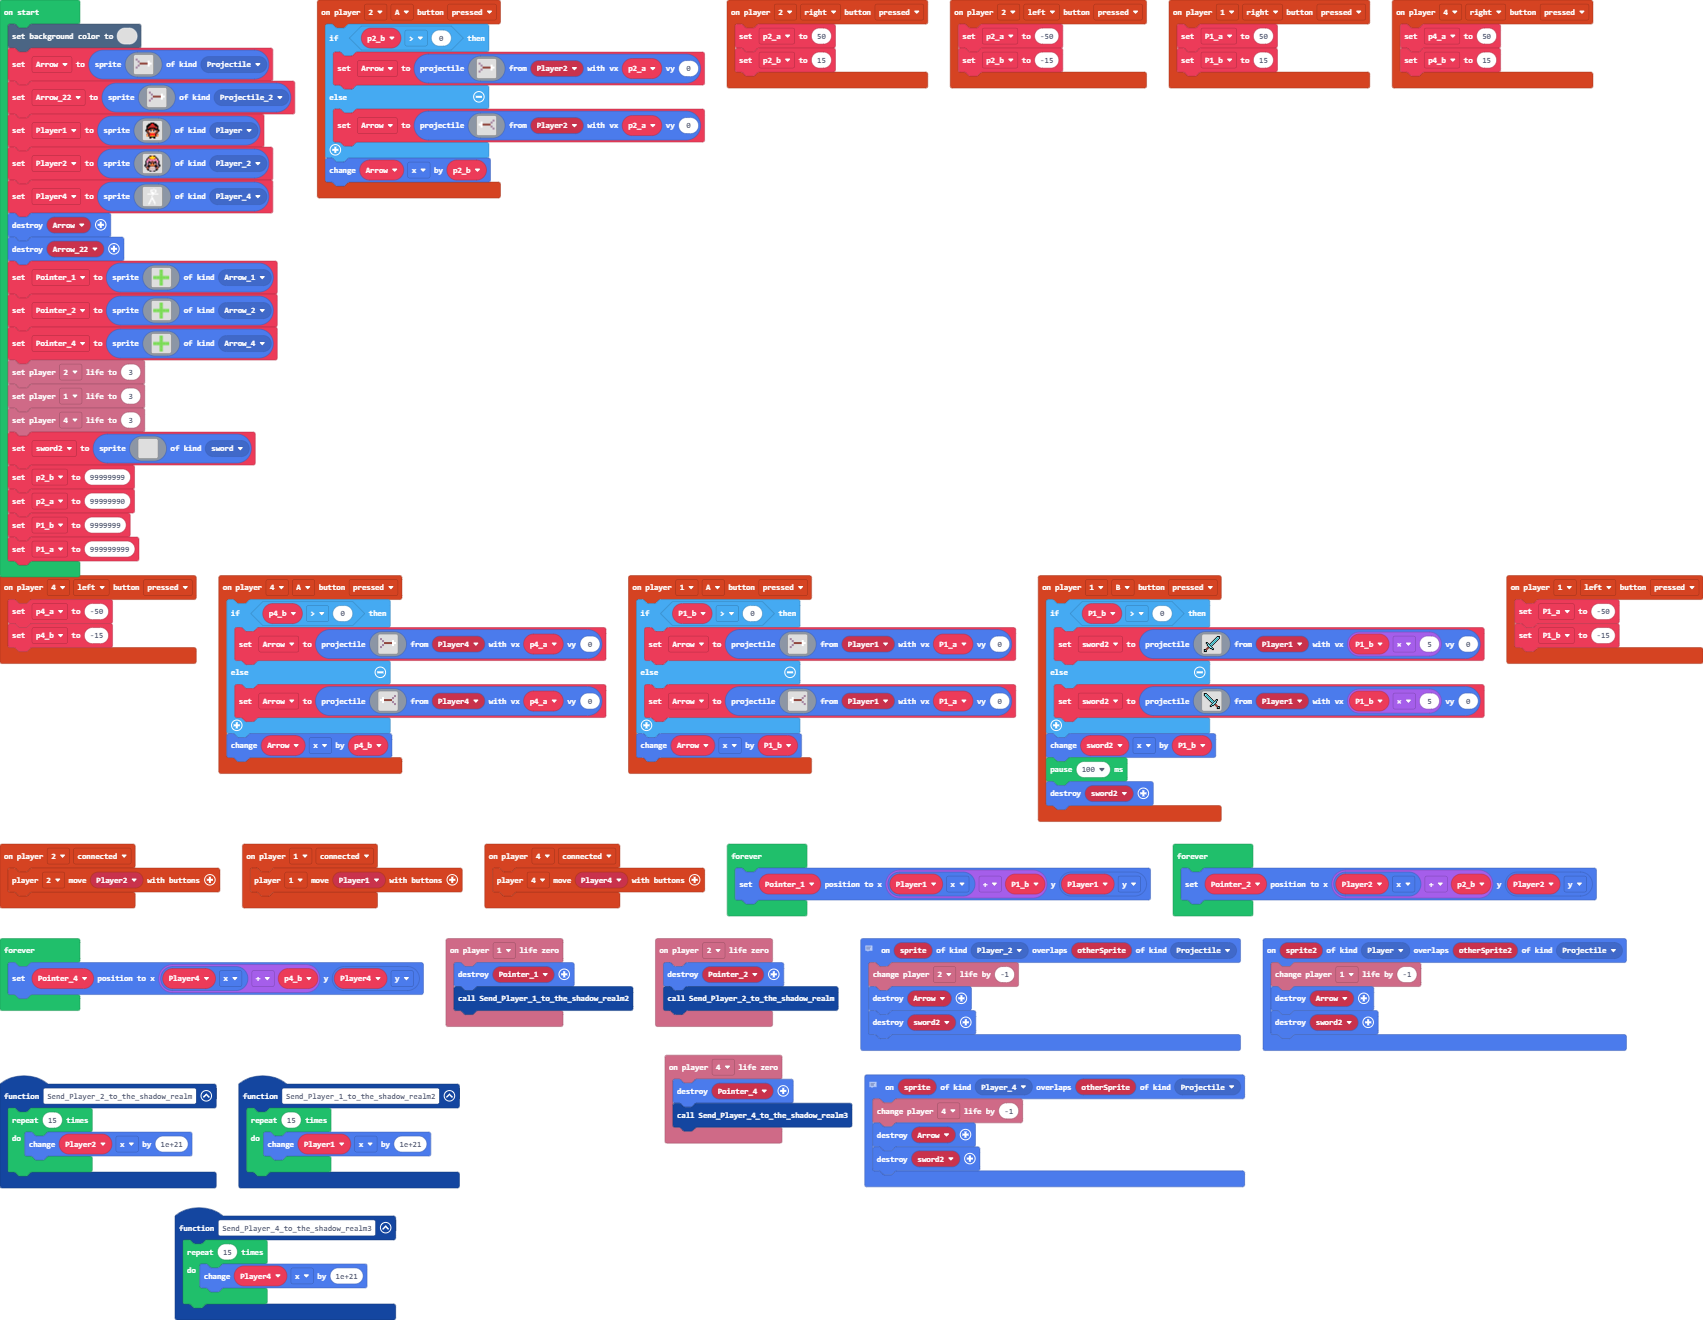
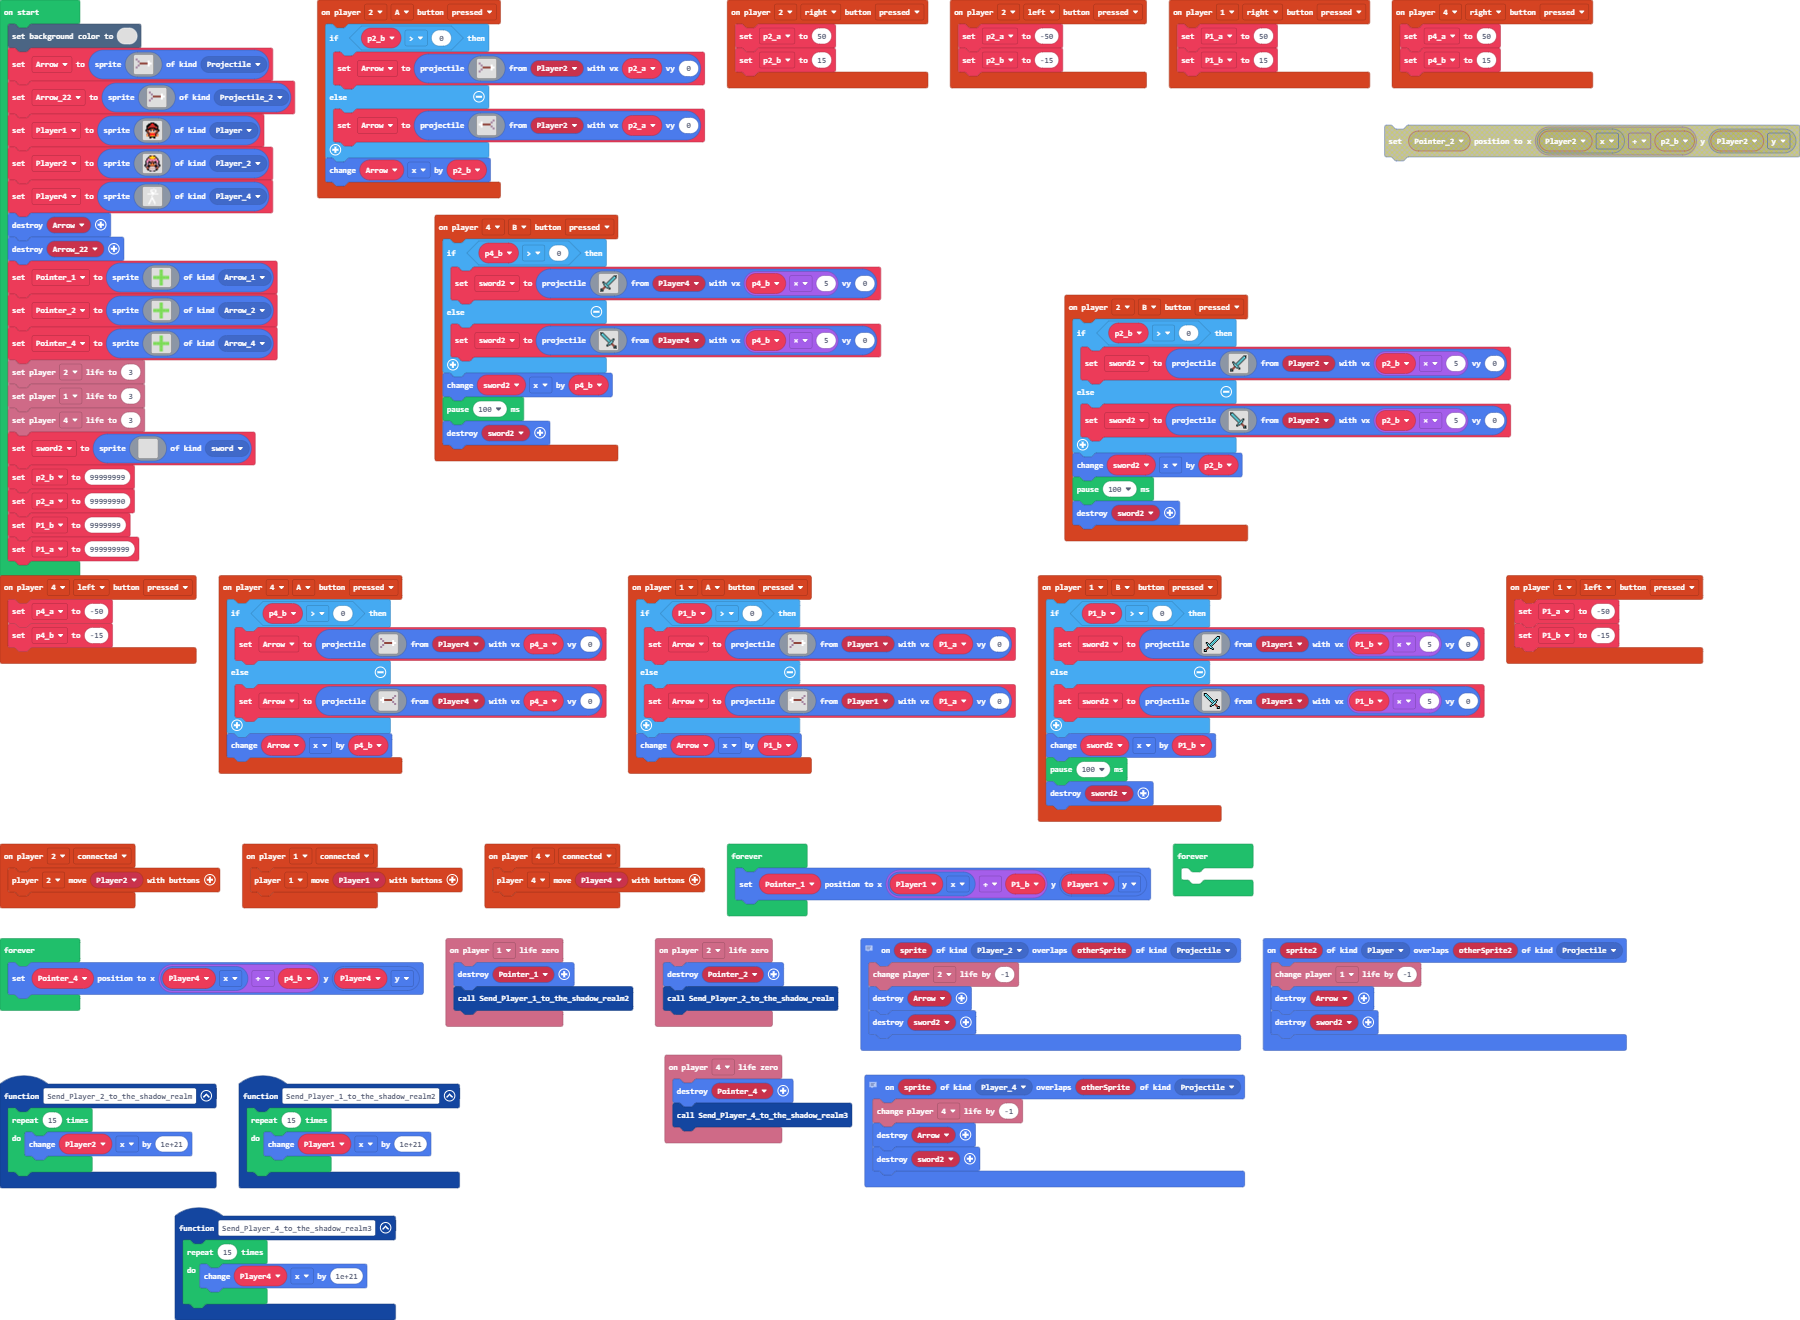
Update pxt.json, main.blocks, main.ts

diff --git a/main.ts b/main.ts
@@ -17,6 +17,94 @@ sprites.onOverlap(SpriteKind.Player_2, SpriteKind.Projectile, function (sprite, 
 controller.player4.onEvent(ControllerEvent.Connected, function () {
     controller.player4.moveSprite(Player4)
 })
+controller.player2.onButtonEvent(ControllerButton.B, ControllerButtonEvent.Pressed, function () {
+    if (p2_b > 0) {
+        sword2 = sprites.createProjectileFromSprite(img`
+            . . . . . . . . . . . . . f f f 
+            . . . . . . . . . . . . f 9 9 f 
+            . . . . . . . . . . . f 9 6 9 f 
+            . . . . . . . . . . f 9 6 9 f . 
+            . . . . . . . . . f 9 6 9 f . . 
+            . . . . . . . . f 9 6 9 f . . . 
+            . . f f . . . f 9 6 9 f . . . . 
+            . . f 9 f . f 9 6 9 f . . . . . 
+            . . . f 9 f 9 6 9 f . . . . . . 
+            . . . f 9 9 f 9 f . . . . . . . 
+            . . . . f 9 9 f . . . . . . . . 
+            . . . e e f 9 9 f . . . . . . . 
+            . . e e e . f f 9 f . . . . . . 
+            f f e e . . . . f f . . . . . . 
+            f 9 f . . . . . . . . . . . . . 
+            f f f . . . . . . . . . . . . . 
+            `, Player2, p2_b * 5, 0)
+    } else {
+        sword2 = sprites.createProjectileFromSprite(img`
+            f f f . . . . . . . . . . . . . 
+            f 9 9 f . . . . . . . . . . . . 
+            f 9 6 9 f . . . . . . . . . . . 
+            . f 9 6 9 f . . . . . . . . . . 
+            . . f 9 6 9 f . . . . . . . . . 
+            . . . f 9 6 9 f . . . . . . . . 
+            . . . . f 9 6 9 f . . . f f . . 
+            . . . . . f 9 6 9 f . f 9 f . . 
+            . . . . . . f 9 6 9 f 9 f . . . 
+            . . . . . . . f 9 f 9 9 f . . . 
+            . . . . . . . . f 9 9 f . . . . 
+            . . . . . . . f 9 9 f e e . . . 
+            . . . . . . f 9 f f . e e e . . 
+            . . . . . . f f . . . . e e f f 
+            . . . . . . . . . . . . . f 9 f 
+            . . . . . . . . . . . . . f f f 
+            `, Player2, p2_b * 5, 0)
+    }
+    sword2.x += p2_b
+    pause(100)
+    sprites.destroy(sword2)
+})
+controller.player4.onButtonEvent(ControllerButton.B, ControllerButtonEvent.Pressed, function () {
+    if (p4_b > 0) {
+        sword2 = sprites.createProjectileFromSprite(img`
+            . . . . . . . . . . . . . f f f 
+            . . . . . . . . . . . . f 9 9 f 
+            . . . . . . . . . . . f 9 6 9 f 
+            . . . . . . . . . . f 9 6 9 f . 
+            . . . . . . . . . f 9 6 9 f . . 
+            . . . . . . . . f 9 6 9 f . . . 
+            . . f f . . . f 9 6 9 f . . . . 
+            . . f 9 f . f 9 6 9 f . . . . . 
+            . . . f 9 f 9 6 9 f . . . . . . 
+            . . . f 9 9 f 9 f . . . . . . . 
+            . . . . f 9 9 f . . . . . . . . 
+            . . . e e f 9 9 f . . . . . . . 
+            . . e e e . f f 9 f . . . . . . 
+            f f e e . . . . f f . . . . . . 
+            f 9 f . . . . . . . . . . . . . 
+            f f f . . . . . . . . . . . . . 
+            `, Player4, p4_b * 5, 0)
+    } else {
+        sword2 = sprites.createProjectileFromSprite(img`
+            f f f . . . . . . . . . . . . . 
+            f 9 9 f . . . . . . . . . . . . 
+            f 9 6 9 f . . . . . . . . . . . 
+            . f 9 6 9 f . . . . . . . . . . 
+            . . f 9 6 9 f . . . . . . . . . 
+            . . . f 9 6 9 f . . . . . . . . 
+            . . . . f 9 6 9 f . . . f f . . 
+            . . . . . f 9 6 9 f . f 9 f . . 
+            . . . . . . f 9 6 9 f 9 f . . . 
+            . . . . . . . f 9 f 9 9 f . . . 
+            . . . . . . . . f 9 9 f . . . . 
+            . . . . . . . f 9 9 f e e . . . 
+            . . . . . . f 9 f f . e e e . . 
+            . . . . . . f f . . . . e e f f 
+            . . . . . . . . . . . . . f 9 f 
+            . . . . . . . . . . . . . f f f 
+            `, Player4, p4_b * 5, 0)
+    }
+    sword2.x += p4_b
+    pause(100)
+    sprites.destroy(sword2)
+})
 controller.player2.onButtonEvent(ControllerButton.A, ControllerButtonEvent.Pressed, function () {
     if (p2_b > 0) {
         Arrow = sprites.createProjectileFromSprite(img`
@@ -348,7 +436,7 @@ forever(function () {
     Pointer_1.setPosition(Player1.x + P1_b, Player1.y)
 })
 forever(function () {
-    Pointer_2.setPosition(Player2.x + p2_b, Player2.y)
+	
 })
 forever(function () {
     Pointer_4.setPosition(Player4.x + p4_b, Player4.y)
